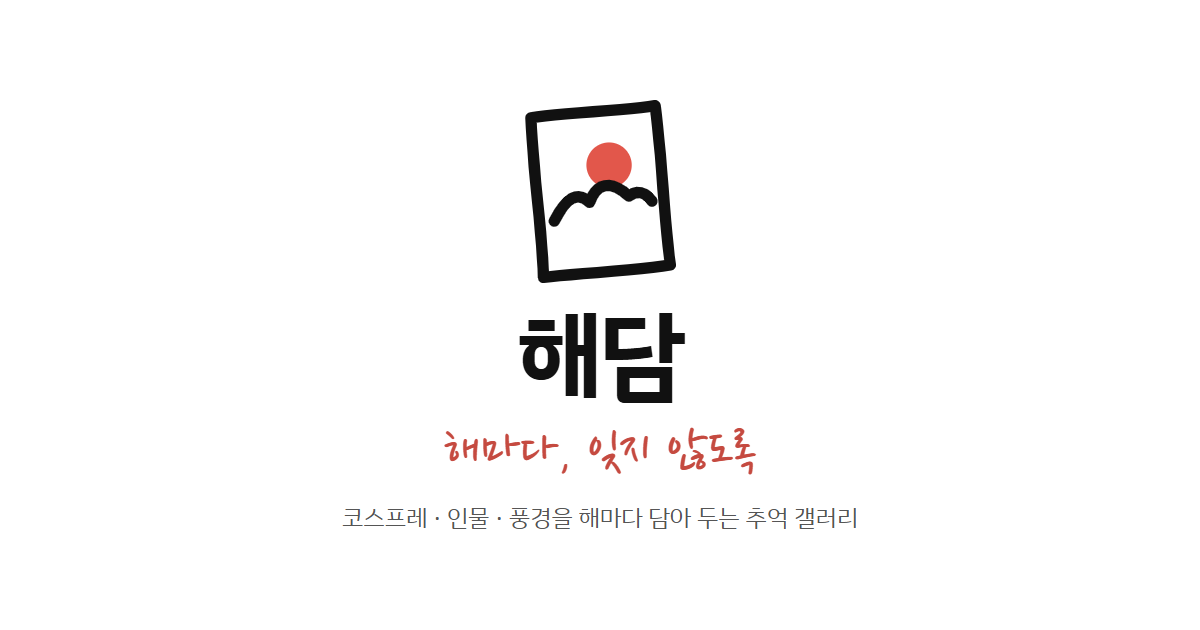
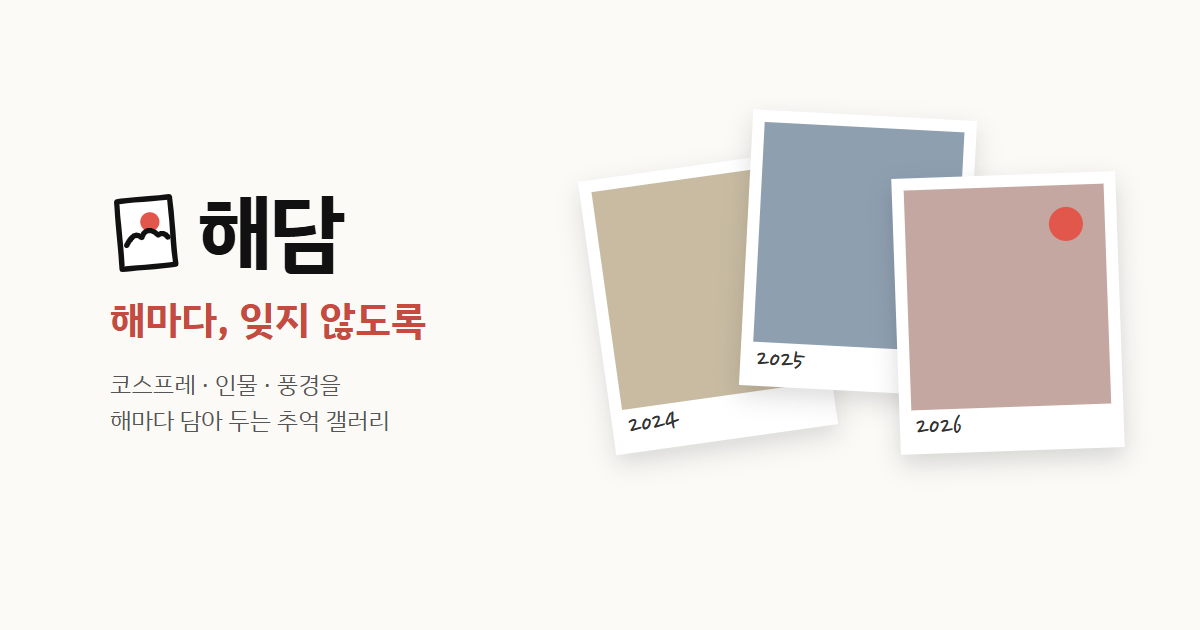
design: 공유 미리보기 그림을 C안으로 — 해마다 쌓이는 인화 사진
왼쪽 로고 · '해담' · '해마다, 잊지 않도록' · 설명, 오른쪽 2024 · 2025 · 2026 손글씨 인화 사진 세 장(색만 칠한 칸).
주소를 ?v=3으로 올려 예전 그림이 캐시에 남지 않게.

diff --git a/src/lib/og.ts b/src/lib/og.ts
@@ -1,2 +1,2 @@
 // 공유 카드(Open Graph) 대표 이미지. 사진 대신 해담 카드만 쓴다 (사진은 해담 안에서만 · AI 수집 방지).
-export const OG_IMAGES = [{ url: "/og.png?v=2", width: 1200, height: 630, alt: "해담 — 해마다, 잊지 않도록" }];
+export const OG_IMAGES = [{ url: "/og.png?v=3", width: 1200, height: 630, alt: "해담 — 해마다, 잊지 않도록" }];
